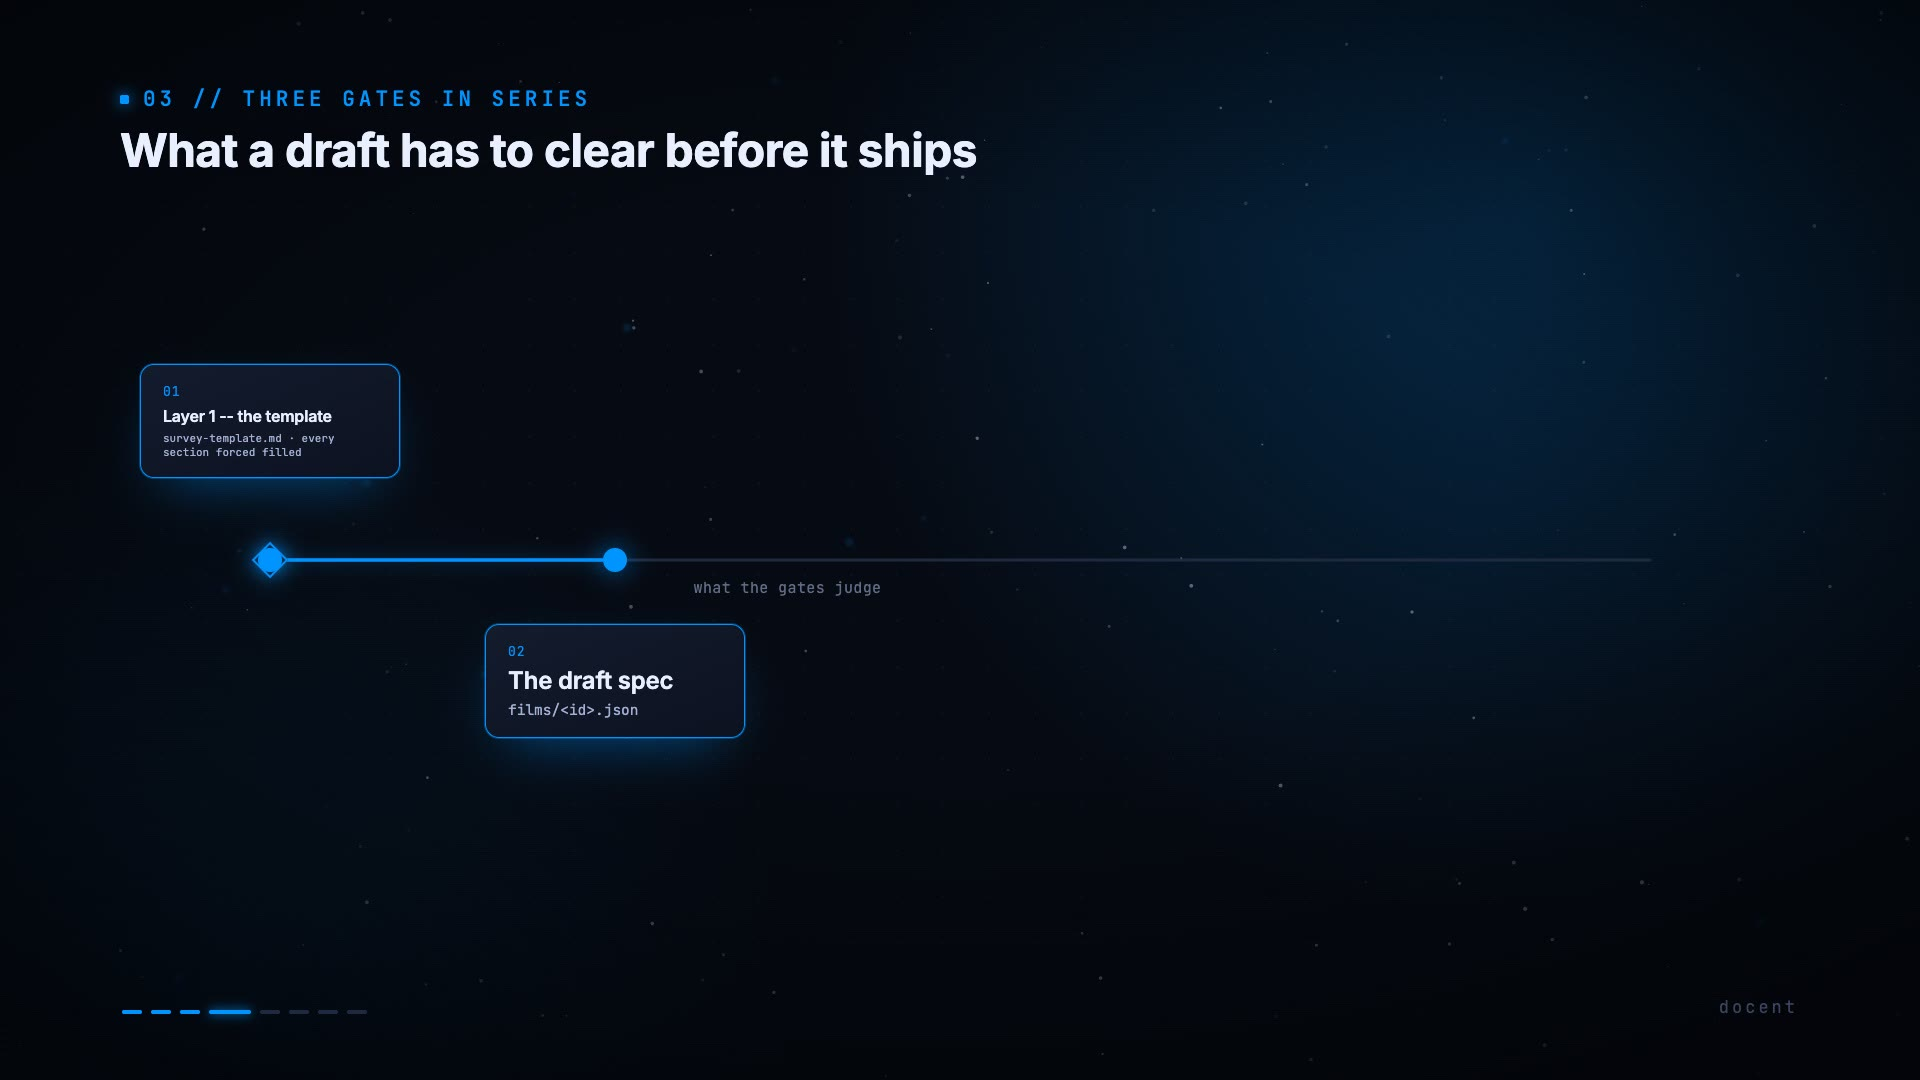
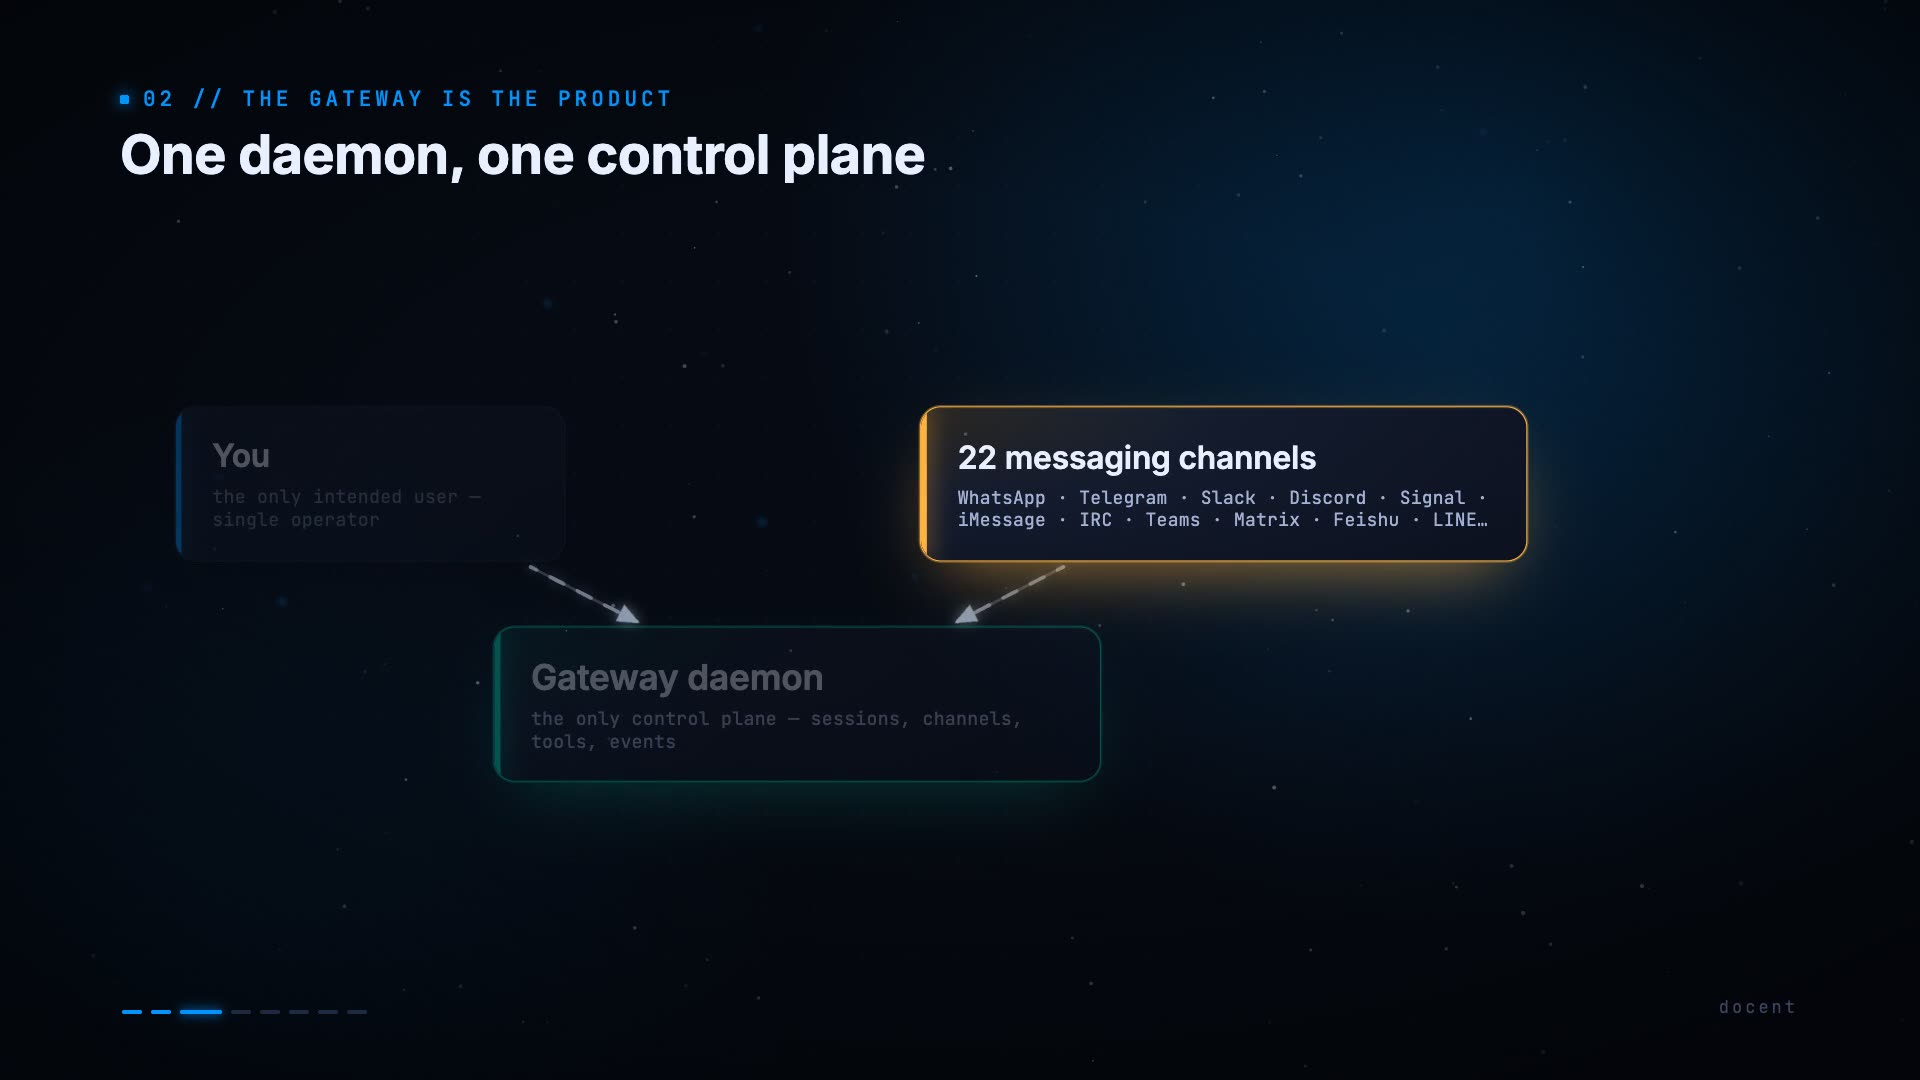
fix(landing): DOCENT.STUDIO kicker no longer hides under the sticky nav
User-reported: the hero's amber-mono 'DOCENT.STUDIO' kicker was sitting
under the fixed nav at small/medium viewport heights. The hero is a
flex-centered container at min-height:100vh; when the content is taller
than (100vh - 4rem) it bleeds top and bottom symmetrically, pushing
the kicker into the nav's overlay area.

Fix: bump .hero padding-top from 4rem → 7rem. The flex-centered content
now anchors below the ~80px expanded nav at any viewport. Confirmed via
Chrome DevTools screenshot — kicker sits cleanly between the nav and
the headline.

Plus three follow-up fixes:

1. Drop the JS-driven .reveal hide-and-fade pattern.
   - Before: .reveal { opacity: 0 } in CSS + JS onMount added .pre to
     all reveal nodes + IntersectionObserver removed .pre on scroll-in.
   - Problem: 17 of 18 reveals stayed at opacity:0 in full-page
     screenshots, for no-JS users, and on slow networks, because the
     IO never fired for items below the initial viewport.
   - Now: .reveal { opacity: 1 } always. Page renders correctly for
     crawlers, screenshots, no-JS users, low-end devices. Scroll
     animations were nice-to-have; reliability is structural.

2. Counter.svelte robustness — if the counter is on/above the fold at
   mount, animate immediately instead of waiting for IO. Same for
   when window.innerHeight is 0 (headless contexts). The IO path
   stays as fallback for far-below-fold counters.

3. Hero tuning from the prior pass: typography scales down to fit
[…]

diff --git a/landing/src/app.css b/landing/src/app.css
@@ -190,11 +190,15 @@ code {
 	position: relative;
 	width: 100%;
 	min-height: 100vh;
+	max-height: 100vh;
 	overflow: hidden;
 	display: flex;
 	align-items: center;
 	background: var(--bg-ground);
-	padding-top: 4rem; /* offset for fixed nav */
+	/* The fixed nav is ~80px tall expanded and ~60px frosted. Push the
+	 * flex-centered content down so the DOCENT.STUDIO kicker never tucks
+	 * under it. */
+	padding-top: 7rem;
 }
 
 .hero-film {
@@ -210,28 +214,36 @@ code {
 	height: 100%;
 	object-fit: cover;
 	object-position: center;
-	opacity: 0.45;
-	filter: saturate(1.1) contrast(1.05);
+	opacity: 0.32;
+	filter: saturate(1.05) contrast(1.05) blur(1.5px);
 }
 
-/* Vignette + edge fades so the video bleeds into the page */
+/* Vignette + edge fades + heavy ground darken so background text/code
+ * frames blur into the surface instead of fighting the foreground. */
 .hero-film::after {
 	content: '';
 	position: absolute;
 	inset: 0;
 	background:
-		radial-gradient(ellipse at center, transparent 30%, var(--bg-ground) 90%),
-		linear-gradient(to top, var(--bg-ground) 0%, transparent 30%, transparent 70%, var(--bg-ground) 100%);
+		radial-gradient(ellipse at center, transparent 8%, rgba(12, 10, 8, 0.55) 60%, var(--bg-ground) 92%),
+		linear-gradient(to top, var(--bg-ground) 0%, transparent 35%, transparent 65%, var(--bg-ground) 100%);
 	pointer-events: none;
 }
 
 .hero-content {
 	position: relative;
 	z-index: 1;
-	padding: 6rem 0 8rem;
+	padding: 2rem var(--gutter) 4rem;
 	max-width: 1100px;
 	margin: 0 auto;
 	width: 100%;
+}
+
+@media (min-height: 800px) {
+	.hero-content {
+		padding-top: 4rem;
+		padding-bottom: 6rem;
+	}
 }
 
 .hero-mark {
@@ -240,7 +252,7 @@ code {
 	letter-spacing: 0.32em;
 	text-transform: uppercase;
 	color: var(--accent);
-	margin-bottom: 3rem;
+	margin-bottom: 1.75rem;
 	display: flex;
 	align-items: center;
 	gap: 0.75rem;
@@ -259,11 +271,11 @@ code {
 	font-family: var(--font-display);
 	font-style: italic;
 	font-weight: 400;
-	font-size: clamp(4rem, 11vw, 9.5rem);
-	line-height: 0.92;
+	font-size: clamp(2.75rem, 8.5vw, 7.5rem);
+	line-height: 0.95;
 	color: var(--ink-hi);
-	letter-spacing: -0.045em;
-	margin: 0 0 2.5rem;
+	letter-spacing: -0.04em;
+	margin: 0 0 1.5rem;
 	max-width: 14ch;
 	opacity: 0;
 	animation: rise 1.2s 0.25s ease-out forwards;
@@ -275,11 +287,11 @@ code {
 }
 
 .hero-sub {
-	font-size: clamp(1.15rem, 1.8vw, 1.45rem);
+	font-size: clamp(1rem, 1.5vw, 1.25rem);
 	line-height: 1.5;
 	color: var(--ink-mid);
-	max-width: 44ch;
-	margin: 0 0 3.5rem;
+	max-width: 50ch;
+	margin: 0 0 2rem;
 	opacity: 0;
 	animation: rise 1.1s 0.4s ease-out forwards;
 }
@@ -837,14 +849,11 @@ code {
 	gap: 1rem;
 }
 
-/* Fade-in on scroll */
+/* Visible by default. Scroll-fade was a nice-to-have but broke the
+ * page for no-JS users, slow networks, screenshots, and crawlers.
+ * Trade-off for reliability — animations are progressive enhancement,
+ * not the structure. */
 .reveal {
-	opacity: 0;
-	transform: translateY(28px);
-	transition: opacity 0.9s ease, transform 0.9s ease;
-}
-
-.reveal.in {
 	opacity: 1;
-	transform: translateY(0);
+	transform: none;
 }

diff --git a/landing/src/lib/Counter.svelte b/landing/src/lib/Counter.svelte
@@ -3,29 +3,44 @@
 
 	let { value, duration = 1400 }: { value: number; duration?: number } = $props();
 	let display = $state(0);
-	let started = $state(false);
 	let container: HTMLSpanElement;
 
+	const animate = (): void => {
+		const start = performance.now();
+		const step = (now: number): void => {
+			const t = Math.min(1, (now - start) / duration);
+			// Ease-out-cubic
+			const eased = 1 - Math.pow(1 - t, 3);
+			display = Math.round(value * eased);
+			if (t < 1) requestAnimationFrame(step);
+		};
+		requestAnimationFrame(step);
+	};
+
 	onMount(() => {
+		// If the counter is already on or above the fold, animate immediately.
+		// Otherwise wait for IntersectionObserver. This makes the counter
+		// reliable even when full-page screenshot tools don't trigger IO
+		// callbacks the way scroll does.
+		const rect = container.getBoundingClientRect();
+		const visibleEnough =
+			rect.top < window.innerHeight * 1.2 && rect.bottom > -100;
+		if (visibleEnough || window.innerHeight === 0) {
+			animate();
+			return;
+		}
+		let triggered = false;
 		const io = new IntersectionObserver(
 			(entries) => {
 				for (const e of entries) {
-					if (e.isIntersecting && !started) {
-						started = true;
-						const start = performance.now();
-						const step = (now: number) => {
-							const t = Math.min(1, (now - start) / duration);
-							// Ease-out-cubic
-							const eased = 1 - Math.pow(1 - t, 3);
-							display = Math.round(value * eased);
-							if (t < 1) requestAnimationFrame(step);
-						};
-						requestAnimationFrame(step);
+					if (e.isIntersecting && !triggered) {
+						triggered = true;
+						animate();
 						io.disconnect();
 					}
 				}
 			},
-			{ threshold: 0.5 }
+			{ threshold: 0.4 }
 		);
 		io.observe(container);
 		return () => io.disconnect();

diff --git a/landing/src/routes/+page.svelte b/landing/src/routes/+page.svelte
@@ -7,20 +7,6 @@
 	import CascadeStages from '$lib/CascadeStages.svelte';
 
 	onMount(() => {
-		const reveals = document.querySelectorAll('.reveal');
-		const io = new IntersectionObserver(
-			(entries) => {
-				for (const e of entries) {
-					if (e.isIntersecting) {
-						e.target.classList.add('in');
-						io.unobserve(e.target);
-					}
-				}
-			},
-			{ threshold: 0.12, rootMargin: '0px 0px -10% 0px' }
-		);
-		reveals.forEach((el) => io.observe(el));
-
 		// Lazy autoplay films when they scroll into view, pause when they leave —
 		// keeps the tab quiet + bandwidth low while still feeling alive.
 		const filmObs = new IntersectionObserver(